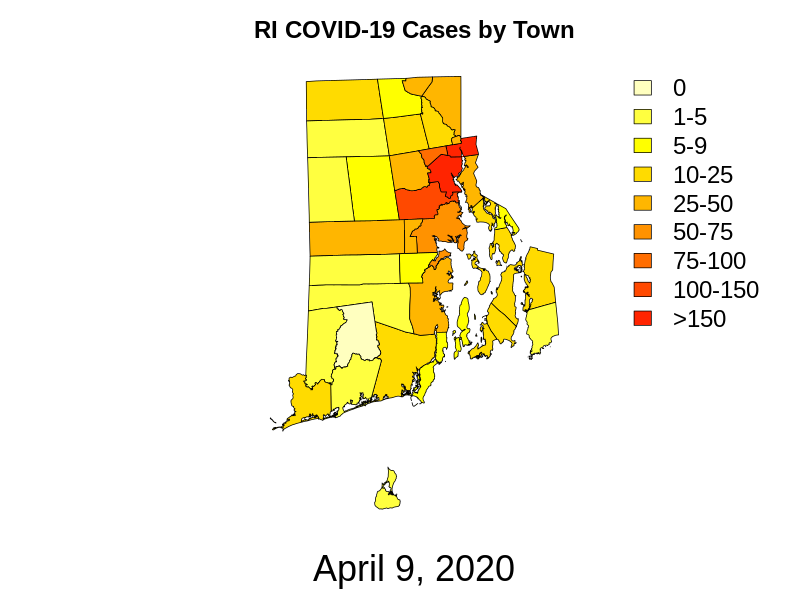
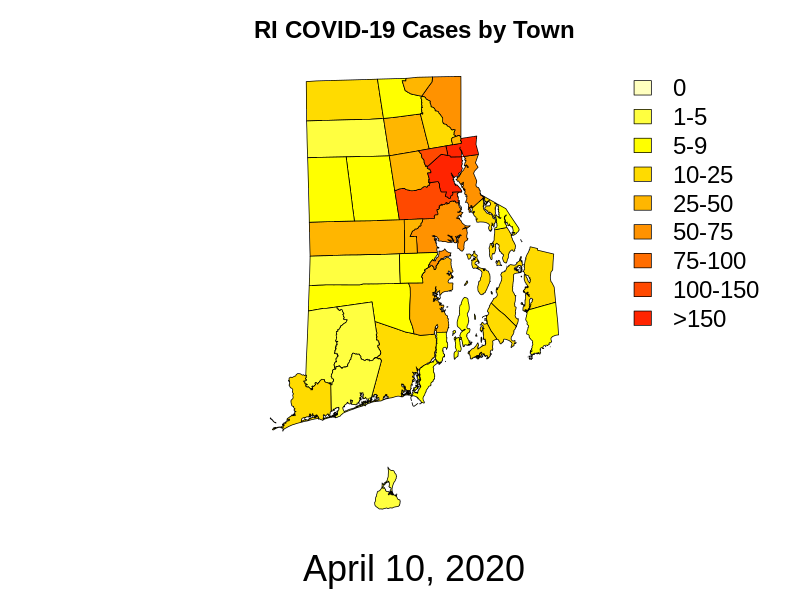
data/plot updated

diff --git a/index.html b/index.html
@@ -1165,48 +1165,48 @@ tt_Init();
 </script>
 <span id="tooltip" name="tooltip" class="tooltip" style="visibility:hidden;"></span>
 <map name="img-map" id="img-map">
-<area shape="circle" coords="418,89,10" onmouseover="Tip('Town&nbsp;&nbsp;:&nbsp;WOONSOCKET<br> Number&amp;nbsp;&amp;nbsp;: &amp;nbsp;27', FONTFACE,'Helvetica', FONTCOLOR, 'black', FONTSIZE, '25', BGCOLOR, '#D6E3F6')"   />
-<area shape="circle" coords="311,400,20" onmouseover="Tip('Town&nbsp;&nbsp;:&nbsp;WESTERLY<br> Number&amp;nbsp;&amp;nbsp;: &amp;nbsp;17', FONTFACE,'Helvetica', FONTCOLOR, 'black', FONTSIZE, '25', BGCOLOR, '#D6E3F6')"   />
-<area shape="circle" coords="412,237,10" onmouseover="Tip('Town&nbsp;&nbsp;:&nbsp;WEST WARWICK<br> Number&amp;nbsp;&amp;nbsp;: &amp;nbsp;34', FONTFACE,'Helvetica', FONTCOLOR, 'black', FONTSIZE, '25', BGCOLOR, '#D6E3F6')"   />
+<area shape="circle" coords="418,89,10" onmouseover="Tip('Town&nbsp;&nbsp;:&nbsp;WOONSOCKET<br> Number&amp;nbsp;&amp;nbsp;: &amp;nbsp;42', FONTFACE,'Helvetica', FONTCOLOR, 'black', FONTSIZE, '25', BGCOLOR, '#D6E3F6')"   />
+<area shape="circle" coords="311,400,20" onmouseover="Tip('Town&nbsp;&nbsp;:&nbsp;WESTERLY<br> Number&amp;nbsp;&amp;nbsp;: &amp;nbsp;19', FONTFACE,'Helvetica', FONTCOLOR, 'black', FONTSIZE, '25', BGCOLOR, '#D6E3F6')"   />
+<area shape="circle" coords="412,237,10" onmouseover="Tip('Town&nbsp;&nbsp;:&nbsp;WEST WARWICK<br> Number&amp;nbsp;&amp;nbsp;: &amp;nbsp;37', FONTFACE,'Helvetica', FONTCOLOR, 'black', FONTSIZE, '25', BGCOLOR, '#D6E3F6')"   />
 <area shape="circle" coords="356,271,20" onmouseover="Tip('Town&nbsp;&nbsp;:&nbsp;WEST GREENWICH<br> Number&amp;nbsp;&amp;nbsp;: &amp;nbsp;<5', FONTFACE,'Helvetica', FONTCOLOR, 'black', FONTSIZE, '25', BGCOLOR, '#D6E3F6')"   />
-<area shape="circle" coords="442,231,20" onmouseover="Tip('Town&nbsp;&nbsp;:&nbsp;WARWICK<br> Number&amp;nbsp;&amp;nbsp;: &amp;nbsp;67', FONTFACE,'Helvetica', FONTCOLOR, 'black', FONTSIZE, '25', BGCOLOR, '#D6E3F6')"   />
-<area shape="circle" coords="506,222,10" onmouseover="Tip('Town&nbsp;&nbsp;:&nbsp;WARREN<br> Number&amp;nbsp;&amp;nbsp;: &amp;nbsp;6', FONTFACE,'Helvetica', FONTCOLOR, 'black', FONTSIZE, '25', BGCOLOR, '#D6E3F6')"   />
-<area shape="circle" coords="539,281,20" onmouseover="Tip('Town&nbsp;&nbsp;:&nbsp;TIVERTON<br> Number&amp;nbsp;&amp;nbsp;: &amp;nbsp;12', FONTFACE,'Helvetica', FONTCOLOR, 'black', FONTSIZE, '25', BGCOLOR, '#D6E3F6')"   />
-<area shape="circle" coords="402,360,20" onmouseover="Tip('Town&nbsp;&nbsp;:&nbsp;SOUTH KINGSTOWN<br> Number&amp;nbsp;&amp;nbsp;: &amp;nbsp;23', FONTFACE,'Helvetica', FONTCOLOR, 'black', FONTSIZE, '25', BGCOLOR, '#D6E3F6')"   />
-<area shape="circle" coords="407,138,20" onmouseover="Tip('Town&nbsp;&nbsp;:&nbsp;SMITHFIELD<br> Number&amp;nbsp;&amp;nbsp;: &amp;nbsp;22', FONTFACE,'Helvetica', FONTCOLOR, 'black', FONTSIZE, '25', BGCOLOR, '#D6E3F6')"   />
-<area shape="circle" coords="374,191,20" onmouseover="Tip('Town&nbsp;&nbsp;:&nbsp;SCITUATE<br> Number&amp;nbsp;&amp;nbsp;: &amp;nbsp;7', FONTFACE,'Helvetica', FONTCOLOR, 'black', FONTSIZE, '25', BGCOLOR, '#D6E3F6')"   />
-<area shape="circle" coords="359,335,20" onmouseover="Tip('Town&nbsp;&nbsp;:&nbsp;RICHMOND<br> Number&amp;nbsp;&amp;nbsp;: &amp;nbsp;0', FONTFACE,'Helvetica', FONTCOLOR, 'black', FONTSIZE, '25', BGCOLOR, '#D6E3F6')"   />
-<area shape="circle" coords="447,176,15" onmouseover="Tip('Town&nbsp;&nbsp;:&nbsp;PROVIDENCE<br> Number&amp;nbsp;&amp;nbsp;: &amp;nbsp;345', FONTFACE,'Helvetica', FONTCOLOR, 'black', FONTSIZE, '25', BGCOLOR, '#D6E3F6')"   />
-<area shape="circle" coords="508,295,15" onmouseover="Tip('Town&nbsp;&nbsp;:&nbsp;PORTSMOUTH<br> Number&amp;nbsp;&amp;nbsp;: &amp;nbsp;12', FONTFACE,'Helvetica', FONTCOLOR, 'black', FONTSIZE, '25', BGCOLOR, '#D6E3F6')"   />
-<area shape="circle" coords="464,151,10" onmouseover="Tip('Town&nbsp;&nbsp;:&nbsp;PAWTUCKET<br> Number&amp;nbsp;&amp;nbsp;: &amp;nbsp;156', FONTFACE,'Helvetica', FONTCOLOR, 'black', FONTSIZE, '25', BGCOLOR, '#D6E3F6')"   />
-<area shape="circle" coords="399,103,20" onmouseover="Tip('Town&nbsp;&nbsp;:&nbsp;NORTH SMITHFIELD<br> Number&amp;nbsp;&amp;nbsp;: &amp;nbsp;6', FONTFACE,'Helvetica', FONTCOLOR, 'black', FONTSIZE, '25', BGCOLOR, '#D6E3F6')"   />
-<area shape="circle" coords="434,157,10" onmouseover="Tip('Town&nbsp;&nbsp;:&nbsp;NORTH PROVIDENCE<br> Number&amp;nbsp;&amp;nbsp;: &amp;nbsp;98', FONTFACE,'Helvetica', FONTCOLOR, 'black', FONTSIZE, '25', BGCOLOR, '#D6E3F6')"   />
-<area shape="circle" coords="431,301,20" onmouseover="Tip('Town&nbsp;&nbsp;:&nbsp;NORTH KINGSTOWN<br> Number&amp;nbsp;&amp;nbsp;: &amp;nbsp;42', FONTFACE,'Helvetica', FONTCOLOR, 'black', FONTSIZE, '25', BGCOLOR, '#D6E3F6')"   />
-<area shape="circle" coords="485,344,10" onmouseover="Tip('Town&nbsp;&nbsp;:&nbsp;NEWPORT<br> Number&amp;nbsp;&amp;nbsp;: &amp;nbsp;15', FONTFACE,'Helvetica', FONTCOLOR, 'black', FONTSIZE, '25', BGCOLOR, '#D6E3F6')"   />
+<area shape="circle" coords="442,231,20" onmouseover="Tip('Town&nbsp;&nbsp;:&nbsp;WARWICK<br> Number&amp;nbsp;&amp;nbsp;: &amp;nbsp;75', FONTFACE,'Helvetica', FONTCOLOR, 'black', FONTSIZE, '25', BGCOLOR, '#D6E3F6')"   />
+<area shape="circle" coords="506,222,10" onmouseover="Tip('Town&nbsp;&nbsp;:&nbsp;WARREN<br> Number&amp;nbsp;&amp;nbsp;: &amp;nbsp;7', FONTFACE,'Helvetica', FONTCOLOR, 'black', FONTSIZE, '25', BGCOLOR, '#D6E3F6')"   />
+<area shape="circle" coords="539,281,20" onmouseover="Tip('Town&nbsp;&nbsp;:&nbsp;TIVERTON<br> Number&amp;nbsp;&amp;nbsp;: &amp;nbsp;18', FONTFACE,'Helvetica', FONTCOLOR, 'black', FONTSIZE, '25', BGCOLOR, '#D6E3F6')"   />
+<area shape="circle" coords="402,360,20" onmouseover="Tip('Town&nbsp;&nbsp;:&nbsp;SOUTH KINGSTOWN<br> Number&amp;nbsp;&amp;nbsp;: &amp;nbsp;24', FONTFACE,'Helvetica', FONTCOLOR, 'black', FONTSIZE, '25', BGCOLOR, '#D6E3F6')"   />
+<area shape="circle" coords="407,138,20" onmouseover="Tip('Town&nbsp;&nbsp;:&nbsp;SMITHFIELD<br> Number&amp;nbsp;&amp;nbsp;: &amp;nbsp;31', FONTFACE,'Helvetica', FONTCOLOR, 'black', FONTSIZE, '25', BGCOLOR, '#D6E3F6')"   />
+<area shape="circle" coords="374,191,20" onmouseover="Tip('Town&nbsp;&nbsp;:&nbsp;SCITUATE<br> Number&amp;nbsp;&amp;nbsp;: &amp;nbsp;8', FONTFACE,'Helvetica', FONTCOLOR, 'black', FONTSIZE, '25', BGCOLOR, '#D6E3F6')"   />
+<area shape="circle" coords="359,335,20" onmouseover="Tip('Town&nbsp;&nbsp;:&nbsp;RICHMOND<br> Number&amp;nbsp;&amp;nbsp;: &amp;nbsp;<5', FONTFACE,'Helvetica', FONTCOLOR, 'black', FONTSIZE, '25', BGCOLOR, '#D6E3F6')"   />
+<area shape="circle" coords="447,176,15" onmouseover="Tip('Town&nbsp;&nbsp;:&nbsp;PROVIDENCE<br> Number&amp;nbsp;&amp;nbsp;: &amp;nbsp;504', FONTFACE,'Helvetica', FONTCOLOR, 'black', FONTSIZE, '25', BGCOLOR, '#D6E3F6')"   />
+<area shape="circle" coords="508,295,15" onmouseover="Tip('Town&nbsp;&nbsp;:&nbsp;PORTSMOUTH<br> Number&amp;nbsp;&amp;nbsp;: &amp;nbsp;14', FONTFACE,'Helvetica', FONTCOLOR, 'black', FONTSIZE, '25', BGCOLOR, '#D6E3F6')"   />
+<area shape="circle" coords="464,151,10" onmouseover="Tip('Town&nbsp;&nbsp;:&nbsp;PAWTUCKET<br> Number&amp;nbsp;&amp;nbsp;: &amp;nbsp;186', FONTFACE,'Helvetica', FONTCOLOR, 'black', FONTSIZE, '25', BGCOLOR, '#D6E3F6')"   />
+<area shape="circle" coords="399,103,20" onmouseover="Tip('Town&nbsp;&nbsp;:&nbsp;NORTH SMITHFIELD<br> Number&amp;nbsp;&amp;nbsp;: &amp;nbsp;7', FONTFACE,'Helvetica', FONTCOLOR, 'black', FONTSIZE, '25', BGCOLOR, '#D6E3F6')"   />
+<area shape="circle" coords="434,157,10" onmouseover="Tip('Town&nbsp;&nbsp;:&nbsp;NORTH PROVIDENCE<br> Number&amp;nbsp;&amp;nbsp;: &amp;nbsp;127', FONTFACE,'Helvetica', FONTCOLOR, 'black', FONTSIZE, '25', BGCOLOR, '#D6E3F6')"   />
+<area shape="circle" coords="431,301,20" onmouseover="Tip('Town&nbsp;&nbsp;:&nbsp;NORTH KINGSTOWN<br> Number&amp;nbsp;&amp;nbsp;: &amp;nbsp;47', FONTFACE,'Helvetica', FONTCOLOR, 'black', FONTSIZE, '25', BGCOLOR, '#D6E3F6')"   />
+<area shape="circle" coords="485,344,10" onmouseover="Tip('Town&nbsp;&nbsp;:&nbsp;NEWPORT<br> Number&amp;nbsp;&amp;nbsp;: &amp;nbsp;18', FONTFACE,'Helvetica', FONTCOLOR, 'black', FONTSIZE, '25', BGCOLOR, '#D6E3F6')"   />
 <area shape="circle" coords="389,493,15" onmouseover="Tip('Town&nbsp;&nbsp;:&nbsp;NEW SHOREHAM<br> Number&amp;nbsp;&amp;nbsp;: &amp;nbsp;<5', FONTFACE,'Helvetica', FONTCOLOR, 'black', FONTSIZE, '25', BGCOLOR, '#D6E3F6')"   />
 <area shape="circle" coords="426,380,10" onmouseover="Tip('Town&nbsp;&nbsp;:&nbsp;NARRAGANSETT<br> Number&amp;nbsp;&amp;nbsp;: &amp;nbsp;10', FONTFACE,'Helvetica', FONTCOLOR, 'black', FONTSIZE, '25', BGCOLOR, '#D6E3F6')"   />
-<area shape="circle" coords="501,326,15" onmouseover="Tip('Town&nbsp;&nbsp;:&nbsp;MIDDLETOWN<br> Number&amp;nbsp;&amp;nbsp;: &amp;nbsp;11', FONTFACE,'Helvetica', FONTCOLOR, 'black', FONTSIZE, '25', BGCOLOR, '#D6E3F6')"   />
-<area shape="circle" coords="542,327,15" onmouseover="Tip('Town&nbsp;&nbsp;:&nbsp;LITTLE COMPTON<br> Number&amp;nbsp;&amp;nbsp;: &amp;nbsp;<5', FONTFACE,'Helvetica', FONTCOLOR, 'black', FONTSIZE, '25', BGCOLOR, '#D6E3F6')"   />
-<area shape="circle" coords="436,130,15" onmouseover="Tip('Town&nbsp;&nbsp;:&nbsp;LINCOLN<br> Number&amp;nbsp;&amp;nbsp;: &amp;nbsp;16', FONTFACE,'Helvetica', FONTCOLOR, 'black', FONTSIZE, '25', BGCOLOR, '#D6E3F6')"   />
-<area shape="circle" coords="411,174,15" onmouseover="Tip('Town&nbsp;&nbsp;:&nbsp;JOHNSTON<br> Number&amp;nbsp;&amp;nbsp;: &amp;nbsp;29', FONTFACE,'Helvetica', FONTCOLOR, 'black', FONTSIZE, '25', BGCOLOR, '#D6E3F6')"   />
+<area shape="circle" coords="501,326,15" onmouseover="Tip('Town&nbsp;&nbsp;:&nbsp;MIDDLETOWN<br> Number&amp;nbsp;&amp;nbsp;: &amp;nbsp;12', FONTFACE,'Helvetica', FONTCOLOR, 'black', FONTSIZE, '25', BGCOLOR, '#D6E3F6')"   />
+<area shape="circle" coords="542,327,15" onmouseover="Tip('Town&nbsp;&nbsp;:&nbsp;LITTLE COMPTON<br> Number&amp;nbsp;&amp;nbsp;: &amp;nbsp;6', FONTFACE,'Helvetica', FONTCOLOR, 'black', FONTSIZE, '25', BGCOLOR, '#D6E3F6')"   />
+<area shape="circle" coords="436,130,15" onmouseover="Tip('Town&nbsp;&nbsp;:&nbsp;LINCOLN<br> Number&amp;nbsp;&amp;nbsp;: &amp;nbsp;20', FONTFACE,'Helvetica', FONTCOLOR, 'black', FONTSIZE, '25', BGCOLOR, '#D6E3F6')"   />
+<area shape="circle" coords="411,174,15" onmouseover="Tip('Town&nbsp;&nbsp;:&nbsp;JOHNSTON<br> Number&amp;nbsp;&amp;nbsp;: &amp;nbsp;40', FONTFACE,'Helvetica', FONTCOLOR, 'black', FONTSIZE, '25', BGCOLOR, '#D6E3F6')"   />
 <area shape="circle" coords="464,327,15" onmouseover="Tip('Town&nbsp;&nbsp;:&nbsp;JAMESTOWN<br> Number&amp;nbsp;&amp;nbsp;: &amp;nbsp;6', FONTFACE,'Helvetica', FONTCOLOR, 'black', FONTSIZE, '25', BGCOLOR, '#D6E3F6')"   />
 <area shape="circle" coords="324,345,20" onmouseover="Tip('Town&nbsp;&nbsp;:&nbsp;HOPKINTON<br> Number&amp;nbsp;&amp;nbsp;: &amp;nbsp;<5', FONTFACE,'Helvetica', FONTCOLOR, 'black', FONTSIZE, '25', BGCOLOR, '#D6E3F6')"   />
 <area shape="circle" coords="349,142,20" onmouseover="Tip('Town&nbsp;&nbsp;:&nbsp;GLOCESTER<br> Number&amp;nbsp;&amp;nbsp;: &amp;nbsp;<5', FONTFACE,'Helvetica', FONTCOLOR, 'black', FONTSIZE, '25', BGCOLOR, '#D6E3F6')"   />
-<area shape="circle" coords="331,193,20" onmouseover="Tip('Town&nbsp;&nbsp;:&nbsp;FOSTER<br> Number&amp;nbsp;&amp;nbsp;: &amp;nbsp;<5', FONTFACE,'Helvetica', FONTCOLOR, 'black', FONTSIZE, '25', BGCOLOR, '#D6E3F6')"   />
-<area shape="circle" coords="370,302,20" onmouseover="Tip('Town&nbsp;&nbsp;:&nbsp;EXETER<br> Number&amp;nbsp;&amp;nbsp;: &amp;nbsp;5', FONTFACE,'Helvetica', FONTCOLOR, 'black', FONTSIZE, '25', BGCOLOR, '#D6E3F6')"   />
-<area shape="circle" coords="471,184,15" onmouseover="Tip('Town&nbsp;&nbsp;:&nbsp;EAST PROVIDENCE<br> Number&amp;nbsp;&amp;nbsp;: &amp;nbsp;49', FONTFACE,'Helvetica', FONTCOLOR, 'black', FONTSIZE, '25', BGCOLOR, '#D6E3F6')"   />
+<area shape="circle" coords="331,193,20" onmouseover="Tip('Town&nbsp;&nbsp;:&nbsp;FOSTER<br> Number&amp;nbsp;&amp;nbsp;: &amp;nbsp;7', FONTFACE,'Helvetica', FONTCOLOR, 'black', FONTSIZE, '25', BGCOLOR, '#D6E3F6')"   />
+<area shape="circle" coords="370,302,20" onmouseover="Tip('Town&nbsp;&nbsp;:&nbsp;EXETER<br> Number&amp;nbsp;&amp;nbsp;: &amp;nbsp;8', FONTFACE,'Helvetica', FONTCOLOR, 'black', FONTSIZE, '25', BGCOLOR, '#D6E3F6')"   />
+<area shape="circle" coords="471,184,15" onmouseover="Tip('Town&nbsp;&nbsp;:&nbsp;EAST PROVIDENCE<br> Number&amp;nbsp;&amp;nbsp;: &amp;nbsp;58', FONTFACE,'Helvetica', FONTCOLOR, 'black', FONTSIZE, '25', BGCOLOR, '#D6E3F6')"   />
 <area shape="circle" coords="416,268,15" onmouseover="Tip('Town&nbsp;&nbsp;:&nbsp;EAST GREENWICH<br> Number&amp;nbsp;&amp;nbsp;: &amp;nbsp;8', FONTFACE,'Helvetica', FONTCOLOR, 'black', FONTSIZE, '25', BGCOLOR, '#D6E3F6')"   />
-<area shape="circle" coords="448,104,20" onmouseover="Tip('Town&nbsp;&nbsp;:&nbsp;CUMBERLAND<br> Number&amp;nbsp;&amp;nbsp;: &amp;nbsp;40', FONTFACE,'Helvetica', FONTCOLOR, 'black', FONTSIZE, '25', BGCOLOR, '#D6E3F6')"   />
-<area shape="circle" coords="423,204,20" onmouseover="Tip('Town&nbsp;&nbsp;:&nbsp;CRANSTON<br> Number&amp;nbsp;&amp;nbsp;: &amp;nbsp;112', FONTFACE,'Helvetica', FONTCOLOR, 'black', FONTSIZE, '25', BGCOLOR, '#D6E3F6')"   />
-<area shape="circle" coords="359,240,20" onmouseover="Tip('Town&nbsp;&nbsp;:&nbsp;COVENTRY<br> Number&amp;nbsp;&amp;nbsp;: &amp;nbsp;42', FONTFACE,'Helvetica', FONTCOLOR, 'black', FONTSIZE, '25', BGCOLOR, '#D6E3F6')"   />
-<area shape="circle" coords="355,383,20" onmouseover="Tip('Town&nbsp;&nbsp;:&nbsp;CHARLESTOWN<br> Number&amp;nbsp;&amp;nbsp;: &amp;nbsp;<5', FONTFACE,'Helvetica', FONTCOLOR, 'black', FONTSIZE, '25', BGCOLOR, '#D6E3F6')"   />
-<area shape="circle" coords="457,143,10" onmouseover="Tip('Town&nbsp;&nbsp;:&nbsp;CENTRAL FALLS<br> Number&amp;nbsp;&amp;nbsp;: &amp;nbsp;26', FONTFACE,'Helvetica', FONTCOLOR, 'black', FONTSIZE, '25', BGCOLOR, '#D6E3F6')"   />
-<area shape="circle" coords="345,104,20" onmouseover="Tip('Town&nbsp;&nbsp;:&nbsp;BURRILLVILLE<br> Number&amp;nbsp;&amp;nbsp;: &amp;nbsp;22', FONTFACE,'Helvetica', FONTCOLOR, 'black', FONTSIZE, '25', BGCOLOR, '#D6E3F6')"   />
+<area shape="circle" coords="448,104,20" onmouseover="Tip('Town&nbsp;&nbsp;:&nbsp;CUMBERLAND<br> Number&amp;nbsp;&amp;nbsp;: &amp;nbsp;52', FONTFACE,'Helvetica', FONTCOLOR, 'black', FONTSIZE, '25', BGCOLOR, '#D6E3F6')"   />
+<area shape="circle" coords="423,204,20" onmouseover="Tip('Town&nbsp;&nbsp;:&nbsp;CRANSTON<br> Number&amp;nbsp;&amp;nbsp;: &amp;nbsp;136', FONTFACE,'Helvetica', FONTCOLOR, 'black', FONTSIZE, '25', BGCOLOR, '#D6E3F6')"   />
+<area shape="circle" coords="359,240,20" onmouseover="Tip('Town&nbsp;&nbsp;:&nbsp;COVENTRY<br> Number&amp;nbsp;&amp;nbsp;: &amp;nbsp;48', FONTFACE,'Helvetica', FONTCOLOR, 'black', FONTSIZE, '25', BGCOLOR, '#D6E3F6')"   />
+<area shape="circle" coords="355,383,20" onmouseover="Tip('Town&nbsp;&nbsp;:&nbsp;CHARLESTOWN<br> Number&amp;nbsp;&amp;nbsp;: &amp;nbsp;5', FONTFACE,'Helvetica', FONTCOLOR, 'black', FONTSIZE, '25', BGCOLOR, '#D6E3F6')"   />
+<area shape="circle" coords="457,143,10" onmouseover="Tip('Town&nbsp;&nbsp;:&nbsp;CENTRAL FALLS<br> Number&amp;nbsp;&amp;nbsp;: &amp;nbsp;35', FONTFACE,'Helvetica', FONTCOLOR, 'black', FONTSIZE, '25', BGCOLOR, '#D6E3F6')"   />
+<area shape="circle" coords="345,104,20" onmouseover="Tip('Town&nbsp;&nbsp;:&nbsp;BURRILLVILLE<br> Number&amp;nbsp;&amp;nbsp;: &amp;nbsp;24', FONTFACE,'Helvetica', FONTCOLOR, 'black', FONTSIZE, '25', BGCOLOR, '#D6E3F6')"   />
 <area shape="circle" coords="503,245,15" onmouseover="Tip('Town&nbsp;&nbsp;:&nbsp;BRISTOL<br> Number&amp;nbsp;&amp;nbsp;: &amp;nbsp;14', FONTFACE,'Helvetica', FONTCOLOR, 'black', FONTSIZE, '25', BGCOLOR, '#D6E3F6')"   />
-<area shape="circle" coords="484,217,10" onmouseover="Tip('Town&nbsp;&nbsp;:&nbsp;BARRINGTON<br> Number&amp;nbsp;&amp;nbsp;: &amp;nbsp;17', FONTFACE,'Helvetica', FONTCOLOR, 'black', FONTSIZE, '25', BGCOLOR, '#D6E3F6')"   />
-<area shape="circle" coords="482,278,10" onmouseover="Tip('Town&nbsp;&nbsp;:&nbsp;PORTSMOUTH<br> Number&amp;nbsp;&amp;nbsp;: &amp;nbsp;12', FONTFACE,'Helvetica', FONTCOLOR, 'black', FONTSIZE, '25', BGCOLOR, '#D6E3F6')"   />
+<area shape="circle" coords="484,217,10" onmouseover="Tip('Town&nbsp;&nbsp;:&nbsp;BARRINGTON<br> Number&amp;nbsp;&amp;nbsp;: &amp;nbsp;18', FONTFACE,'Helvetica', FONTCOLOR, 'black', FONTSIZE, '25', BGCOLOR, '#D6E3F6')"   />
+<area shape="circle" coords="482,278,10" onmouseover="Tip('Town&nbsp;&nbsp;:&nbsp;PORTSMOUTH<br> Number&amp;nbsp;&amp;nbsp;: &amp;nbsp;14', FONTFACE,'Helvetica', FONTCOLOR, 'black', FONTSIZE, '25', BGCOLOR, '#D6E3F6')"   />
 <area shape="circle" coords="442,346,10" onmouseover="Tip('Town&nbsp;&nbsp;:&nbsp;NARRAGANSETT<br> Number&amp;nbsp;&amp;nbsp;: &amp;nbsp;10', FONTFACE,'Helvetica', FONTCOLOR, 'black', FONTSIZE, '25', BGCOLOR, '#D6E3F6')"   />
-<area shape="circle" coords="441,260,10" onmouseover="Tip('Town&nbsp;&nbsp;:&nbsp;WARWICK<br> Number&amp;nbsp;&amp;nbsp;: &amp;nbsp;67', FONTFACE,'Helvetica', FONTCOLOR, 'black', FONTSIZE, '25', BGCOLOR, '#D6E3F6')"   />
+<area shape="circle" coords="441,260,10" onmouseover="Tip('Town&nbsp;&nbsp;:&nbsp;WARWICK<br> Number&amp;nbsp;&amp;nbsp;: &amp;nbsp;75', FONTFACE,'Helvetica', FONTCOLOR, 'black', FONTSIZE, '25', BGCOLOR, '#D6E3F6')"   />
 </map>
 <div class="plot">
 <img border="0" src="plot.png" usemap="#img-map" />
